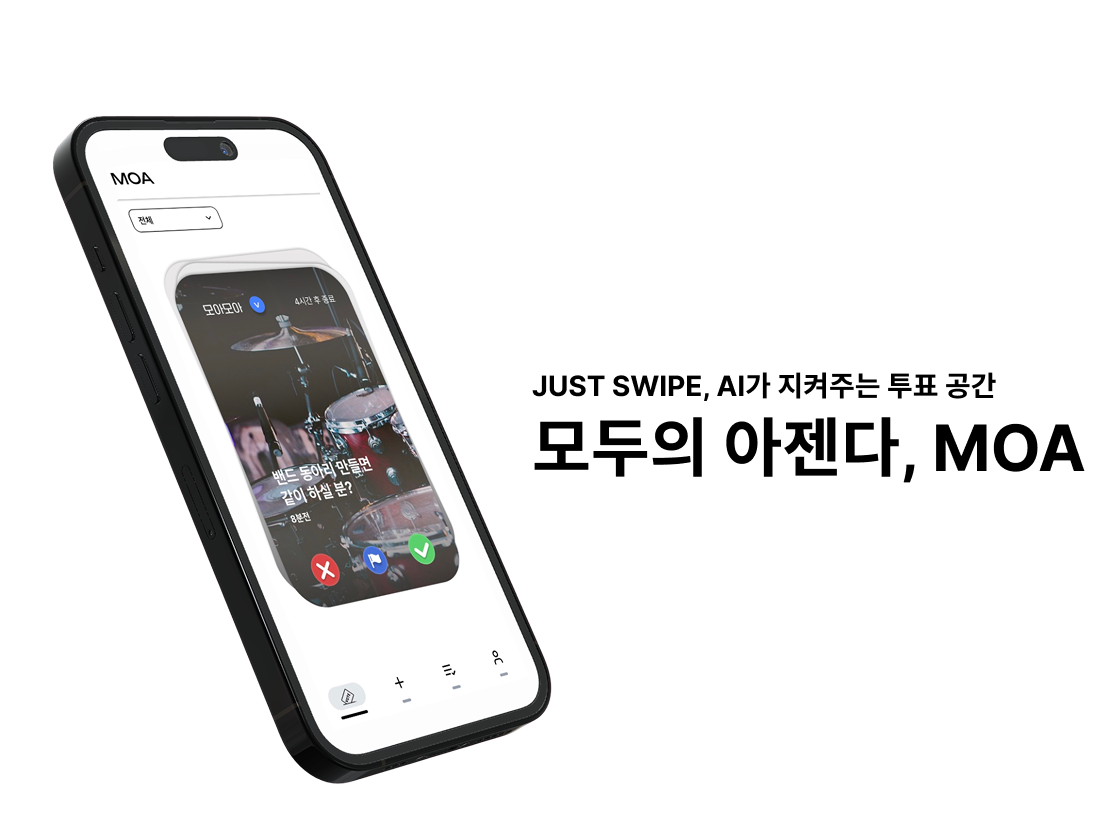
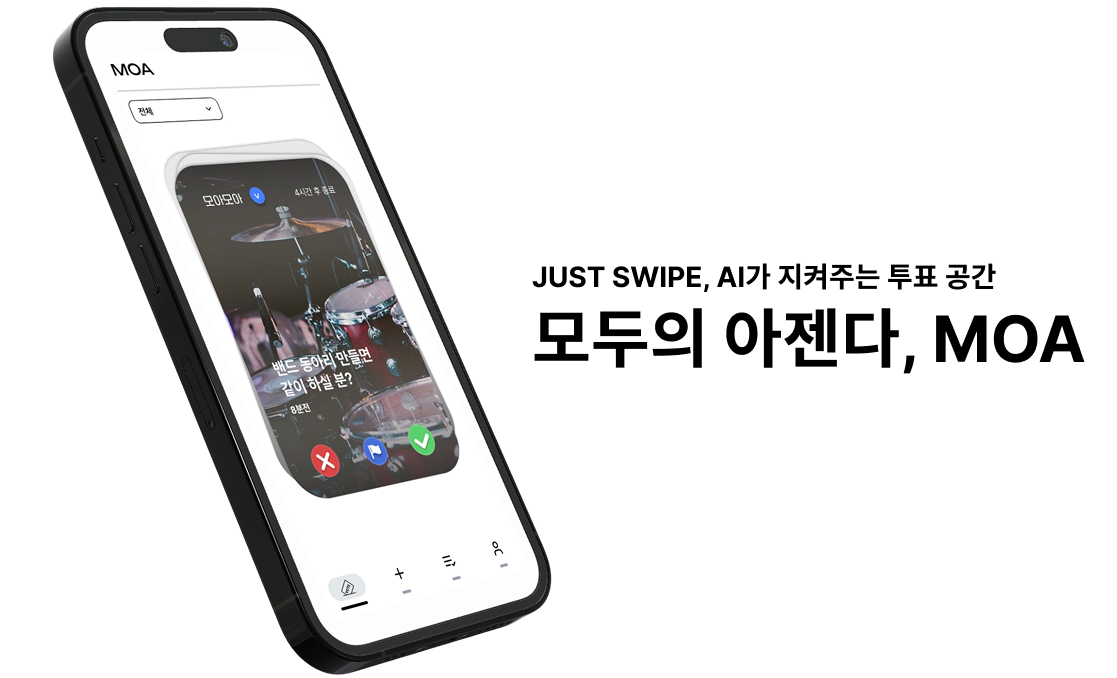
style: 사진 누끼 제거, 배경 그라데이션 적용

Changed region(s): [[0.0304, 0.0, 0.5175, 1.0], [0.4566, 0.3717, 0.974, 0.5885]]

diff --git a/src/styles/layout.css b/src/styles/layout.css
@@ -27,4 +27,20 @@ body {
   align-items: center;
   gap: 5vw;
   height: 100vh;
+
+  background: linear-gradient(62deg, #ffe6f0, #ffefba, #ffffff);
+  background-size: 200% 200%;
+  animation: gradient-move 4s linear infinite;
+}
+
+@keyframes gradient-move {
+  0% {
+    background-position: 0% 50%;
+  }
+  50% {
+    background-position: 100% 50%;
+  }
+  100% {
+    background-position: 0% 50%;
+  }
 }
